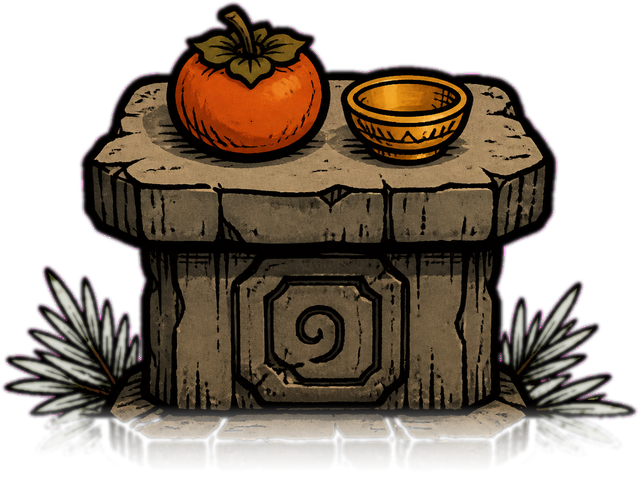
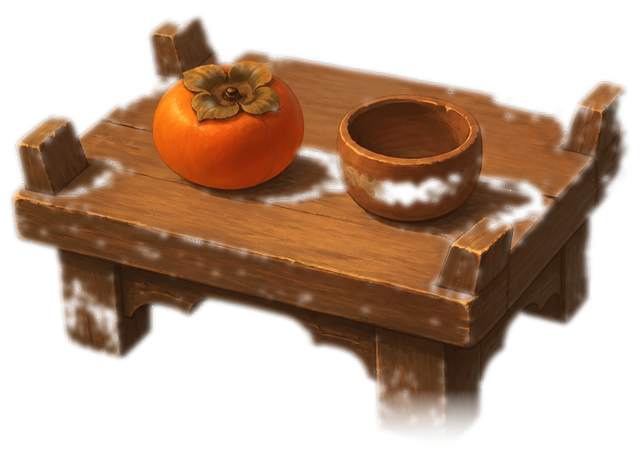
Soften the anvil and altar into the dusk ground.
Cut both from the painted refs, drop the ink ring, and rebuild the valley floor from two meadows so a close look does not show the same clump twice.

diff --git a/godot/project.test.ts b/godot/project.test.ts
@@ -52,6 +52,10 @@ test("Valley look is one dusk illustration, not DST stickers", () => {
     .map((n) => readFileSync(`godot/scripts/${n}`, "utf8"))
     .join("\n");
   assert.doesNotMatch(scripts, /Wanderer|Wilson|Don't Starve|Dont Starve/i);
+  const inn = readFileSync("godot/assets/art/prop-inn.png");
+  assert.ok(!inn.includes("Wanderer") && !inn.includes("WANDERER") && !inn.includes("Good Ale"));
+  assert.ok(existsSync("godot/assets/art/prop-anvil.png"));
+  assert.ok(existsSync("godot/assets/art/prop-altar.png"));
 });
 
 test("Godot client plays fish, mine and kitchen from the same snap", () => {

diff --git a/tools/paint_look.py b/tools/paint_look.py
@@ -103,6 +103,67 @@ def nudge(im: Image.Image, dx: int, dy: int) -> Image.Image:
     return out
 
 
+def _remap(tex: np.ndarray, u: np.ndarray, v: np.ndarray) -> np.ndarray:
+    h, w = tex.shape[:2]
+    u = np.mod(u, w)
+    v = np.mod(v, h)
+    u0 = np.floor(u).astype(np.int32)
+    v0 = np.floor(v).astype(np.int32)
+    u1 = (u0 + 1) % w
+    v1 = (v0 + 1) % h
+    fu = (u - u0)[..., None]
+    fv = (v - v0)[..., None]
+    c00 = tex[v0, u0]
+    c10 = tex[v0, u1]
+    c01 = tex[v1, u0]
+    c11 = tex[v1, u1]
+    return c00 * (1 - fu) * (1 - fv) + c10 * fu * (1 - fv) + c01 * (1 - fu) * fv + c11 * fu * fv
+
+
+def cut_prop(im: Image.Image, tol: float = 36.0) -> Image.Image:
+    """Key olive-gray (or any flat corner) and keep a dusk-soft silhouette. No ink ring."""
+    src = im.convert("RGB")
+    seed = np.asarray(src, dtype=np.float32)[2, 2]
+    cut = flood_cut(im, tol)
+    arr = np.asarray(cut.convert("RGBA"), dtype=np.float32)
+    dist = np.linalg.norm(arr[:, :, :3] - seed, axis=2)
+    arr[:, :, 3] = np.where(dist < tol + 8.0, 0, arr[:, :, 3])
+    # leftover fringe is still close to the key; push it out before the dusk grade
+    lum = arr[:, :, :3] @ np.array([0.3, 0.5, 0.2], dtype=np.float32)
+    near = (dist < tol + 18.0) & (arr[:, :, 3] < 140)
+    arr[:, :, 3] = np.where(near, arr[:, :, 3] * 0.15, arr[:, :, 3])
+    # ink rings from the old sheet: dark and already thinning
+    ink = (lum < 22.0) & (arr[:, :, 3] < 200)
+    arr[ink, 3] = 0
+    out = Image.fromarray(np.clip(arr, 0, 255).astype(np.uint8), "RGBA")
+    bbox = out.getchannel("A").getbbox()
+    if not bbox:
+        return out
+    pad = 18
+    x0, y0, x1, y1 = bbox
+    x0, y0 = max(0, x0 - pad), max(0, y0 - pad)
+    x1, y1 = min(out.size[0], x1 + pad), min(out.size[1], y1 + pad)
+    spr = out.crop((x0, y0, x1, y1))
+    if spr.size[0] > 640:
+        nh = max(8, int(spr.size[1] * 640 / spr.size[0]))
+        spr = spr.resize((640, nh), Image.Resampling.LANCZOS)
+    a = spr.getchannel("A").filter(ImageFilter.MinFilter(3)).filter(ImageFilter.GaussianBlur(2.2))
+    spr.putalpha(a)
+    return spr
+
+
+def finish_anvil_altar() -> None:
+    for dest, src, fade in (
+        ("prop-anvil.png", "anvil-ref.png", 0.14),
+        ("prop-altar.png", "altar-ref.png", 0.14),
+    ):
+        ref = REFS / src
+        if not ref.exists():
+            print("skip", dest, "missing", ref)
+            continue
+        save(process_prop(cut_prop(Image.open(ref)), fade), dest)
+
+
 def process_prop(im: Image.Image, fade=0.22) -> Image.Image:
     buf = np.asarray(im.convert("RGBA"), dtype=np.float32) / 255.0
     h, w = buf.shape[:2]
@@ -165,9 +226,77 @@ def scrub_inn(im: Image.Image) -> Image.Image:
     return out
 
 
+def _load_meadows() -> list[np.ndarray]:
+    names = ("meadow-a.png", "meadow-b.png", "ground-ref.png")
+    texs = []
+    for name in names:
+        p = REFS / name
+        if p.exists():
+            texs.append(np.asarray(Image.open(p).convert("RGB"), dtype=np.float32) / 255.0)
+    if not texs:
+        raise FileNotFoundError("no meadow refs in %s" % REFS)
+    while len(texs) < 3:
+        texs.append(texs[0])
+    return texs
+
+
+def _meadow_stack(W: int, H: int) -> np.ndarray:
+    a, b, c = _load_meadows()
+    yy, xx = np.mgrid[0:H, 0:W].astype(np.float32)
+    # gentle warp only — keep the meadow looking like grass, not a smeared wave
+    w1 = 16.0 * np.sin(xx * 0.0055 + yy * 0.0038) + 10.0 * np.cos(xx * 0.0028 - yy * 0.0064)
+    w2 = 12.0 * np.sin(xx * 0.0078 - yy * 0.0046)
+    pa = _remap(a, xx * (a.shape[1] / W) * 0.92 + w1 + 40, yy * (a.shape[0] / H) * 0.88 + w2 + 28)
+    pb = _remap(b, xx * (b.shape[1] / W) * 0.78 + 70 + w2, yy * (b.shape[0] / H) * 0.74 + 36 + w1)
+    pc = _remap(c, xx * (c.shape[1] / W) * 0.55 + 24 + w1 * 0.4, yy * (c.shape[0] / H) * 0.50 + 18)
+    mix = 0.5 + 0.5 * np.sin(xx * 0.0032 + yy * 0.0024)
+    mix = np.clip(mix, 0.28, 0.72)[..., None]
+    grass = pa * (1.0 - mix) + pb * mix
+    grass = grass * 0.84 + pc * 0.16
+    lum = grass @ np.array([0.3, 0.5, 0.2], dtype=np.float32)
+    hi = np.clip((lum - 0.58) / 0.36, 0, 1)[..., None]
+    mid = np.median(grass.reshape(-1, 3), axis=0)
+    grass = grass * (1.0 - hi * 0.28) + mid * (hi * 0.28)
+    # pull down the same flower/clump landmarks that read as a tile up close
+    blur = np.asarray(
+        Image.fromarray((np.clip(grass, 0, 1) * 255).astype(np.uint8), "RGB").filter(ImageFilter.GaussianBlur(2.2)),
+        dtype=np.float32,
+    ) / 255.0
+    grass = np.clip(blur + (grass - blur) * 0.58, 0, 1)
+    shade = 0.96 + 0.05 * np.sin(xx * 0.0022 + yy * 0.0030)
+    return np.clip(grass * shade[..., None], 0, 1)
+
+
+def _soft_field(kind: np.ndarray, scale: int) -> np.ndarray:
+    """One more stop of blur than the last sheet. Path still has a core."""
+    th, tw = kind.shape
+    res = 12
+    rng = np.random.default_rng(4)
+    fh, fw = th * res, tw * res
+    ys = np.arange(fh)[:, None]
+    xs = np.arange(fw)[None, :]
+    ox = rng.normal(0, 0.30, (fh, fw))
+    oy = rng.normal(0, 0.22, (fh, fw))
+    ix = np.clip(np.rint(xs / res + ox), 0, tw - 1).astype(np.int32)
+    iy = np.clip(np.rint(ys / res + oy), 0, th - 1).astype(np.int32)
+    k = kind[iy, ix]
+    raw = np.zeros((fh, fw, 3), dtype=np.float32)
+    raw[:, :, 0] = k == 0
+    raw[:, :, 1] = k == 1
+    raw[:, :, 2] = k == 2
+    rgb = Image.fromarray((raw * 255).astype(np.uint8), "RGB")
+    # last pass used 5.5; one more stop, not a wash
+    field = np.asarray(rgb.filter(ImageFilter.GaussianBlur(7.2)), dtype=np.float32) / 255.0
+    HW, HH = tw * 36 * scale, th * 36 * scale
+    field = np.asarray(
+        Image.fromarray((np.clip(field, 0, 1) * 255).astype(np.uint8), "RGB").resize((HW, HH), Image.Resampling.LANCZOS),
+        dtype=np.float32,
+    ) / 255.0
+    field = field / np.maximum(field.sum(axis=2, keepdims=True), 1e-5)
+    return field
+
+
 def paint_ground() -> Image.Image:
-    meadow = Image.open(REFS / "ground-ref.png").convert("RGB")
-    src = np.asarray(meadow, dtype=np.float32) / 255.0
     rows = VALLEY
     tw, th = len(rows[0]), len(rows)
     tile = 36
@@ -179,36 +308,24 @@ def paint_ground() -> Image.Image:
                 kind[y, x] = 2
             elif ch in ",P":
                 kind[y, x] = 1
-    res = 8
-    field = np.zeros((th * res, tw * res, 3), dtype=np.float32)
-    rng = np.random.default_rng(4)
-    fh, fw = field.shape[:2]
-    for y in range(fh):
-        for x in range(fw):
-            ox, oy = rng.normal(0, 0.32), rng.normal(0, 0.24)
-            ix = int(np.clip(round(x / res + ox), 0, tw - 1))
-            iy = int(np.clip(round(y / res + oy), 0, th - 1))
-            field[y, x, kind[iy, ix]] = 1.0
-    field = np.asarray(
-        Image.fromarray((field * 255).astype(np.uint8), "RGB").filter(ImageFilter.GaussianBlur(5.5)).resize((W, H), Image.Resampling.LANCZOS),
-        dtype=np.float32,
-    ) / 255.0
-    field = field / np.maximum(field.sum(axis=2, keepdims=True), 1e-5)
-    big = np.asarray(meadow.resize((W + 280, H + 220), Image.Resampling.LANCZOS), dtype=np.float32) / 255.0
-    grass = big[50 : 50 + H, 90 : 90 + W]
-    dirt = np.clip(grass * np.array([1.08, 0.82, 0.58]) * 0.9 + np.array([0.18, 0.12, 0.07]), 0, 1)
-    # dusk water shares the meadow's warmth — not a teal sticker strip
-    water = np.clip(grass * np.array([0.42, 0.48, 0.40]) + np.array([0.22, 0.20, 0.14]), 0, 1)
-    shore = np.clip(field[:, :, 2:3] * (1.0 - field[:, :, 2:3]) * 4.0, 0, 1)
-    mud = np.clip(dirt * 0.7 + np.array([0.28, 0.18, 0.10]), 0, 1)
+    scale = 2
+    HW, HH = W * scale, H * scale
+    field = _soft_field(kind, scale)
+    grass = _meadow_stack(HW, HH)
+    dirt = np.clip(grass * np.array([1.10, 0.80, 0.54]) * 0.82 + np.array([0.24, 0.14, 0.07]), 0, 1)
+    wet = np.asarray(Image.fromarray((grass * 255).astype(np.uint8), "RGB").filter(ImageFilter.GaussianBlur(1.4)), dtype=np.float32) / 255.0
+    water = np.clip(wet * np.array([0.42, 0.46, 0.38]) + np.array([0.20, 0.18, 0.13]), 0, 1)
+    shore = np.clip(field[:, :, 2:3] * (1.0 - field[:, :, 2:3]) * 3.2, 0, 1)
+    mud = np.clip(dirt * 0.62 + np.array([0.26, 0.16, 0.08]), 0, 1)
     col = grass * field[:, :, 0:1] + dirt * field[:, :, 1:2] + water * field[:, :, 2:3]
-    col = col * (1.0 - shore * 0.55) + mud * shore * 0.55
-    yy = np.linspace(0, 1, H)[:, None, None]
+    col = col * (1.0 - shore * 0.48) + mud * shore * 0.48
+    yy = np.linspace(0, 1, HH)[:, None, None]
     col = np.clip(col * DUSK, 0, 1)
-    col = col * (1.0 - (1.0 - yy) * 0.14) + FOG * (1.0 - yy) * 0.14
-    col = col * (1.0 - yy * 0.05) + np.array([0.80, 0.54, 0.32]) * yy * 0.05
-    col = np.clip(col + np.random.default_rng(1).normal(0, 0.01, col.shape), 0, 1)
-    return Image.fromarray((col * 255).astype(np.uint8), "RGB")
+    col = col * (1.0 - (1.0 - yy) * 0.12) + FOG * (1.0 - yy) * 0.12
+    col = col * (1.0 - yy * 0.04) + np.array([0.80, 0.54, 0.32]) * yy * 0.04
+    col = np.clip(col + np.random.default_rng(1).normal(0, 0.008, col.shape), 0, 1)
+    hi = Image.fromarray((col * 255).astype(np.uint8), "RGB")
+    return hi.resize((W, H), Image.Resampling.LANCZOS)
 
 
 def paint_paper() -> Image.Image:
@@ -292,12 +409,11 @@ def main() -> None:
         ("prop-dock-b.png", 0.32),
         ("prop-gate.png", 0.16),
         ("prop-board.png", 0.16),
-        ("prop-anvil.png", 0.16),
-        ("prop-altar.png", 0.16),
     ]:
         p = ART / name
         if p.exists():
             save(process_prop(Image.open(p), fade), name)
+    finish_anvil_altar()
     save(paint_paper(), "tex-paper.png")
     save(paint_plaque(), "tex-plaque.png")
     save(paint_ground(), "ground-valley.png")

diff --git a/tools/tighten_look.py b/tools/tighten_look.py
@@ -1,0 +1,22 @@
+#!/usr/bin/env python3
+"""Tighten only anvil, altar, and ground. Do not rerun the full paint pipeline."""
+
+from __future__ import annotations
+
+import sys
+from pathlib import Path
+
+ROOT = Path(__file__).resolve().parents[1]
+sys.path.insert(0, str(ROOT / "tools"))
+
+from paint_look import finish_anvil_altar, paint_ground, save  # noqa: E402
+
+
+def main() -> None:
+    finish_anvil_altar()
+    save(paint_ground(), "ground-valley.png")
+    print("tightened")
+
+
+if __name__ == "__main__":
+    main()
